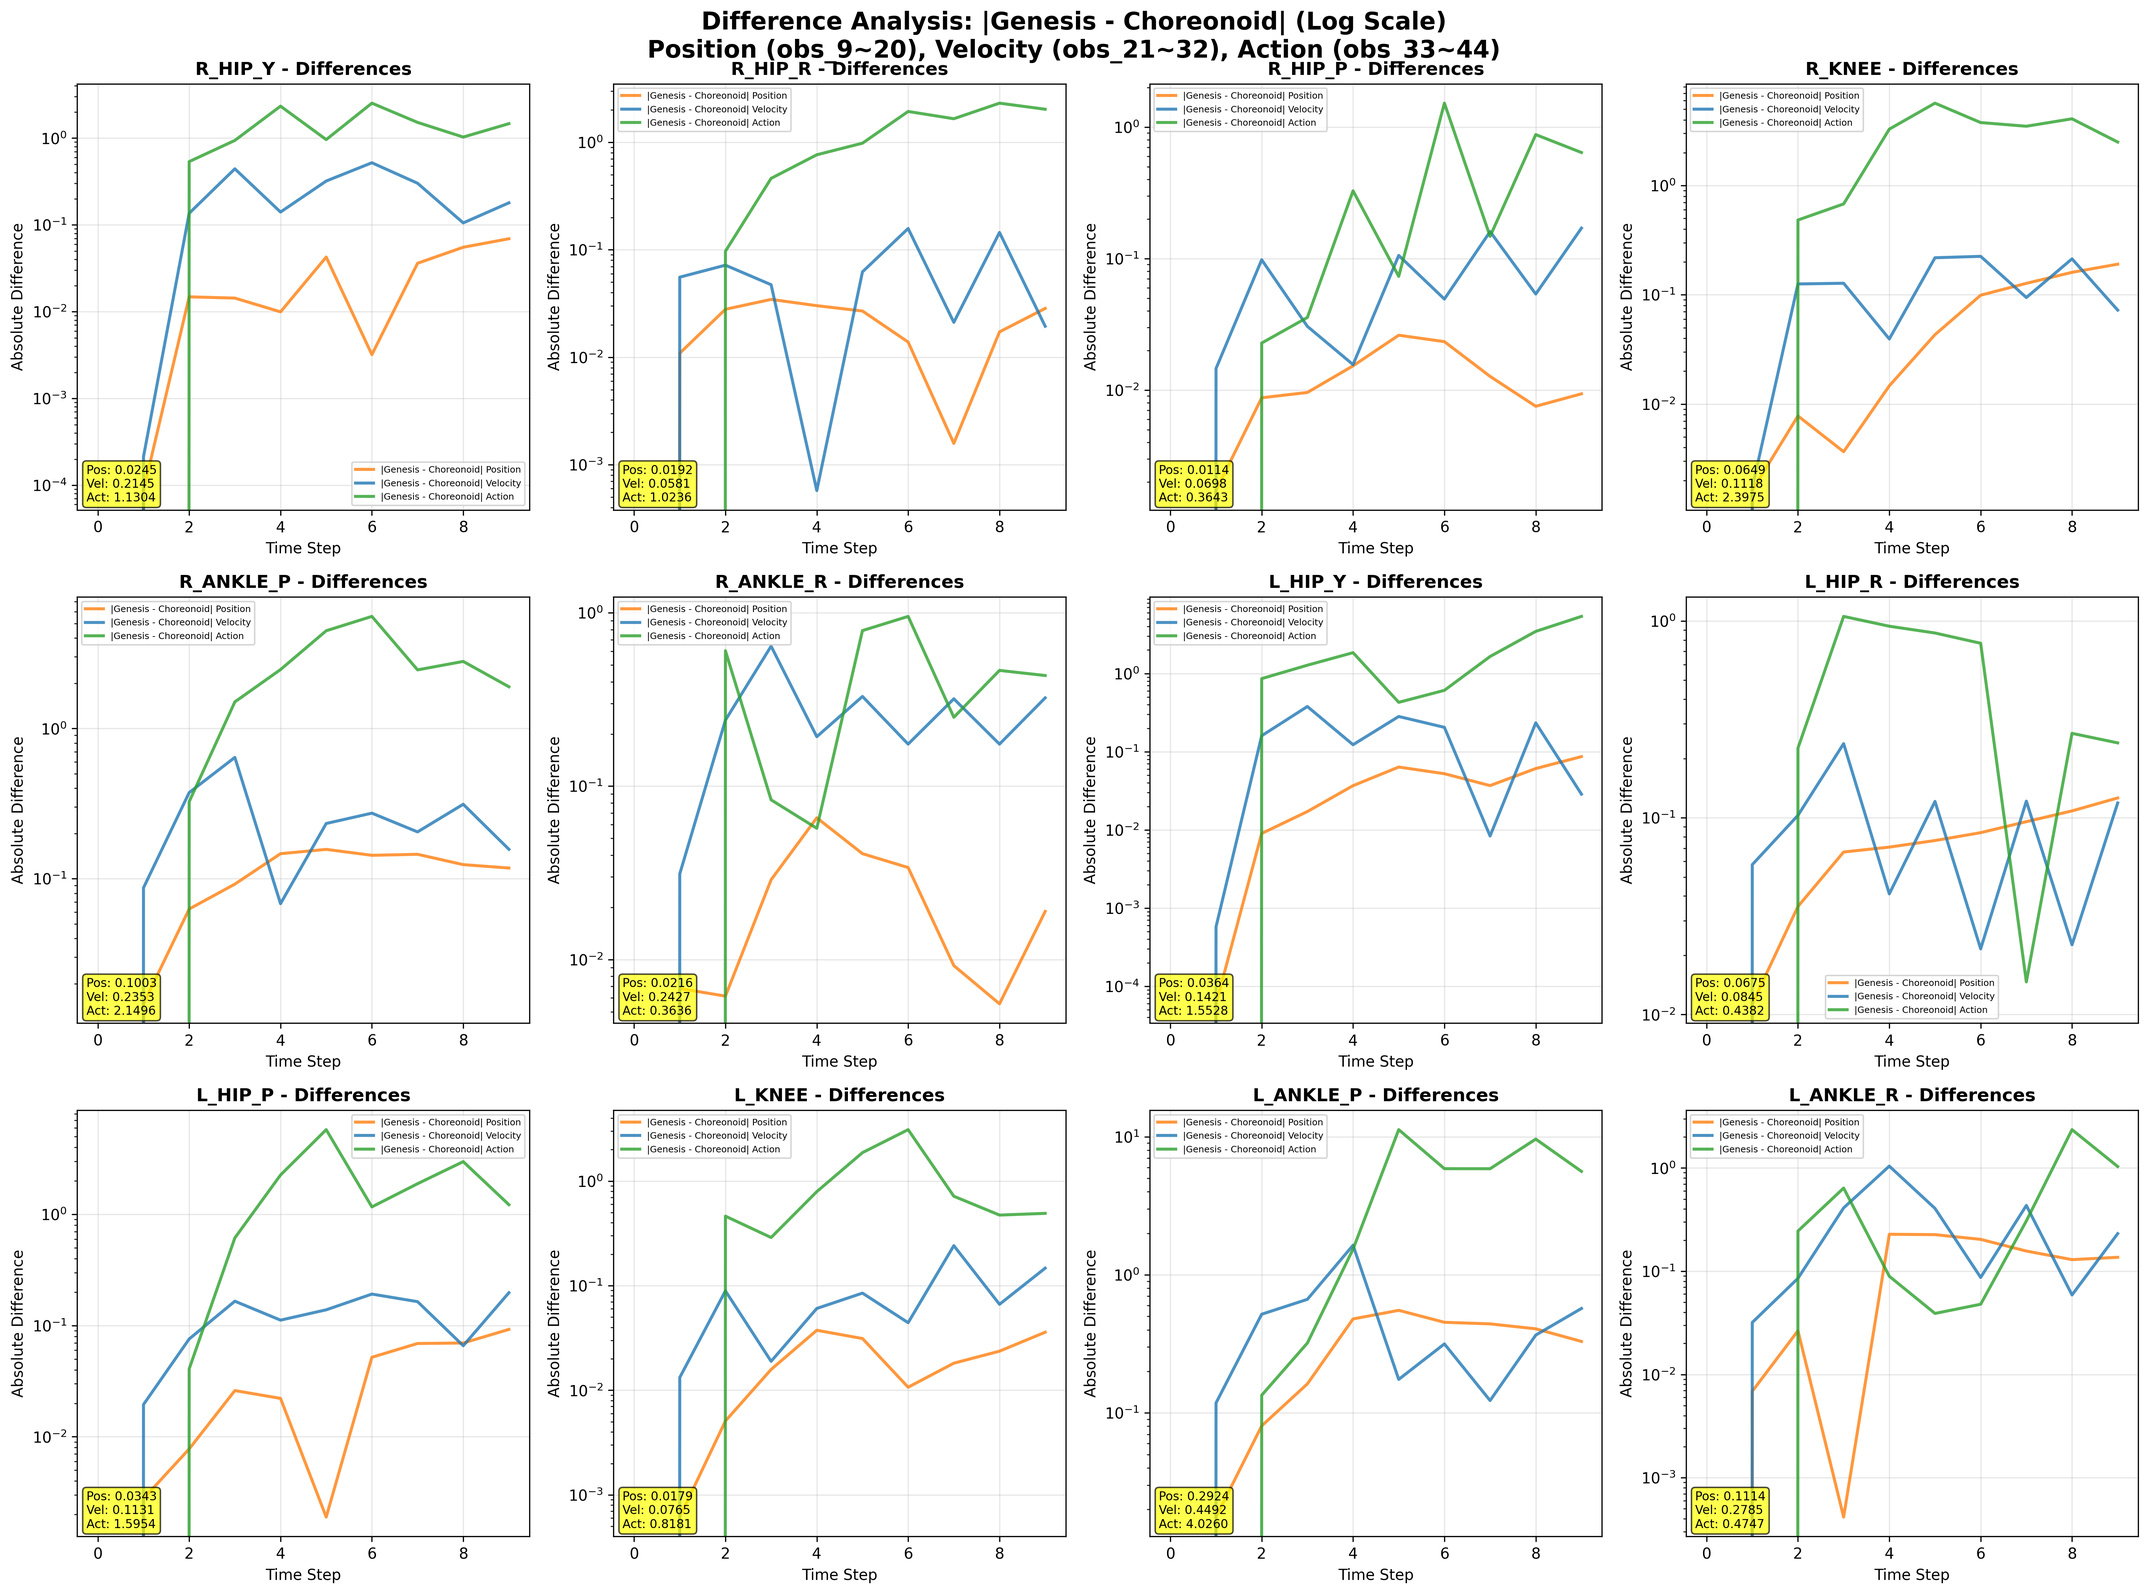
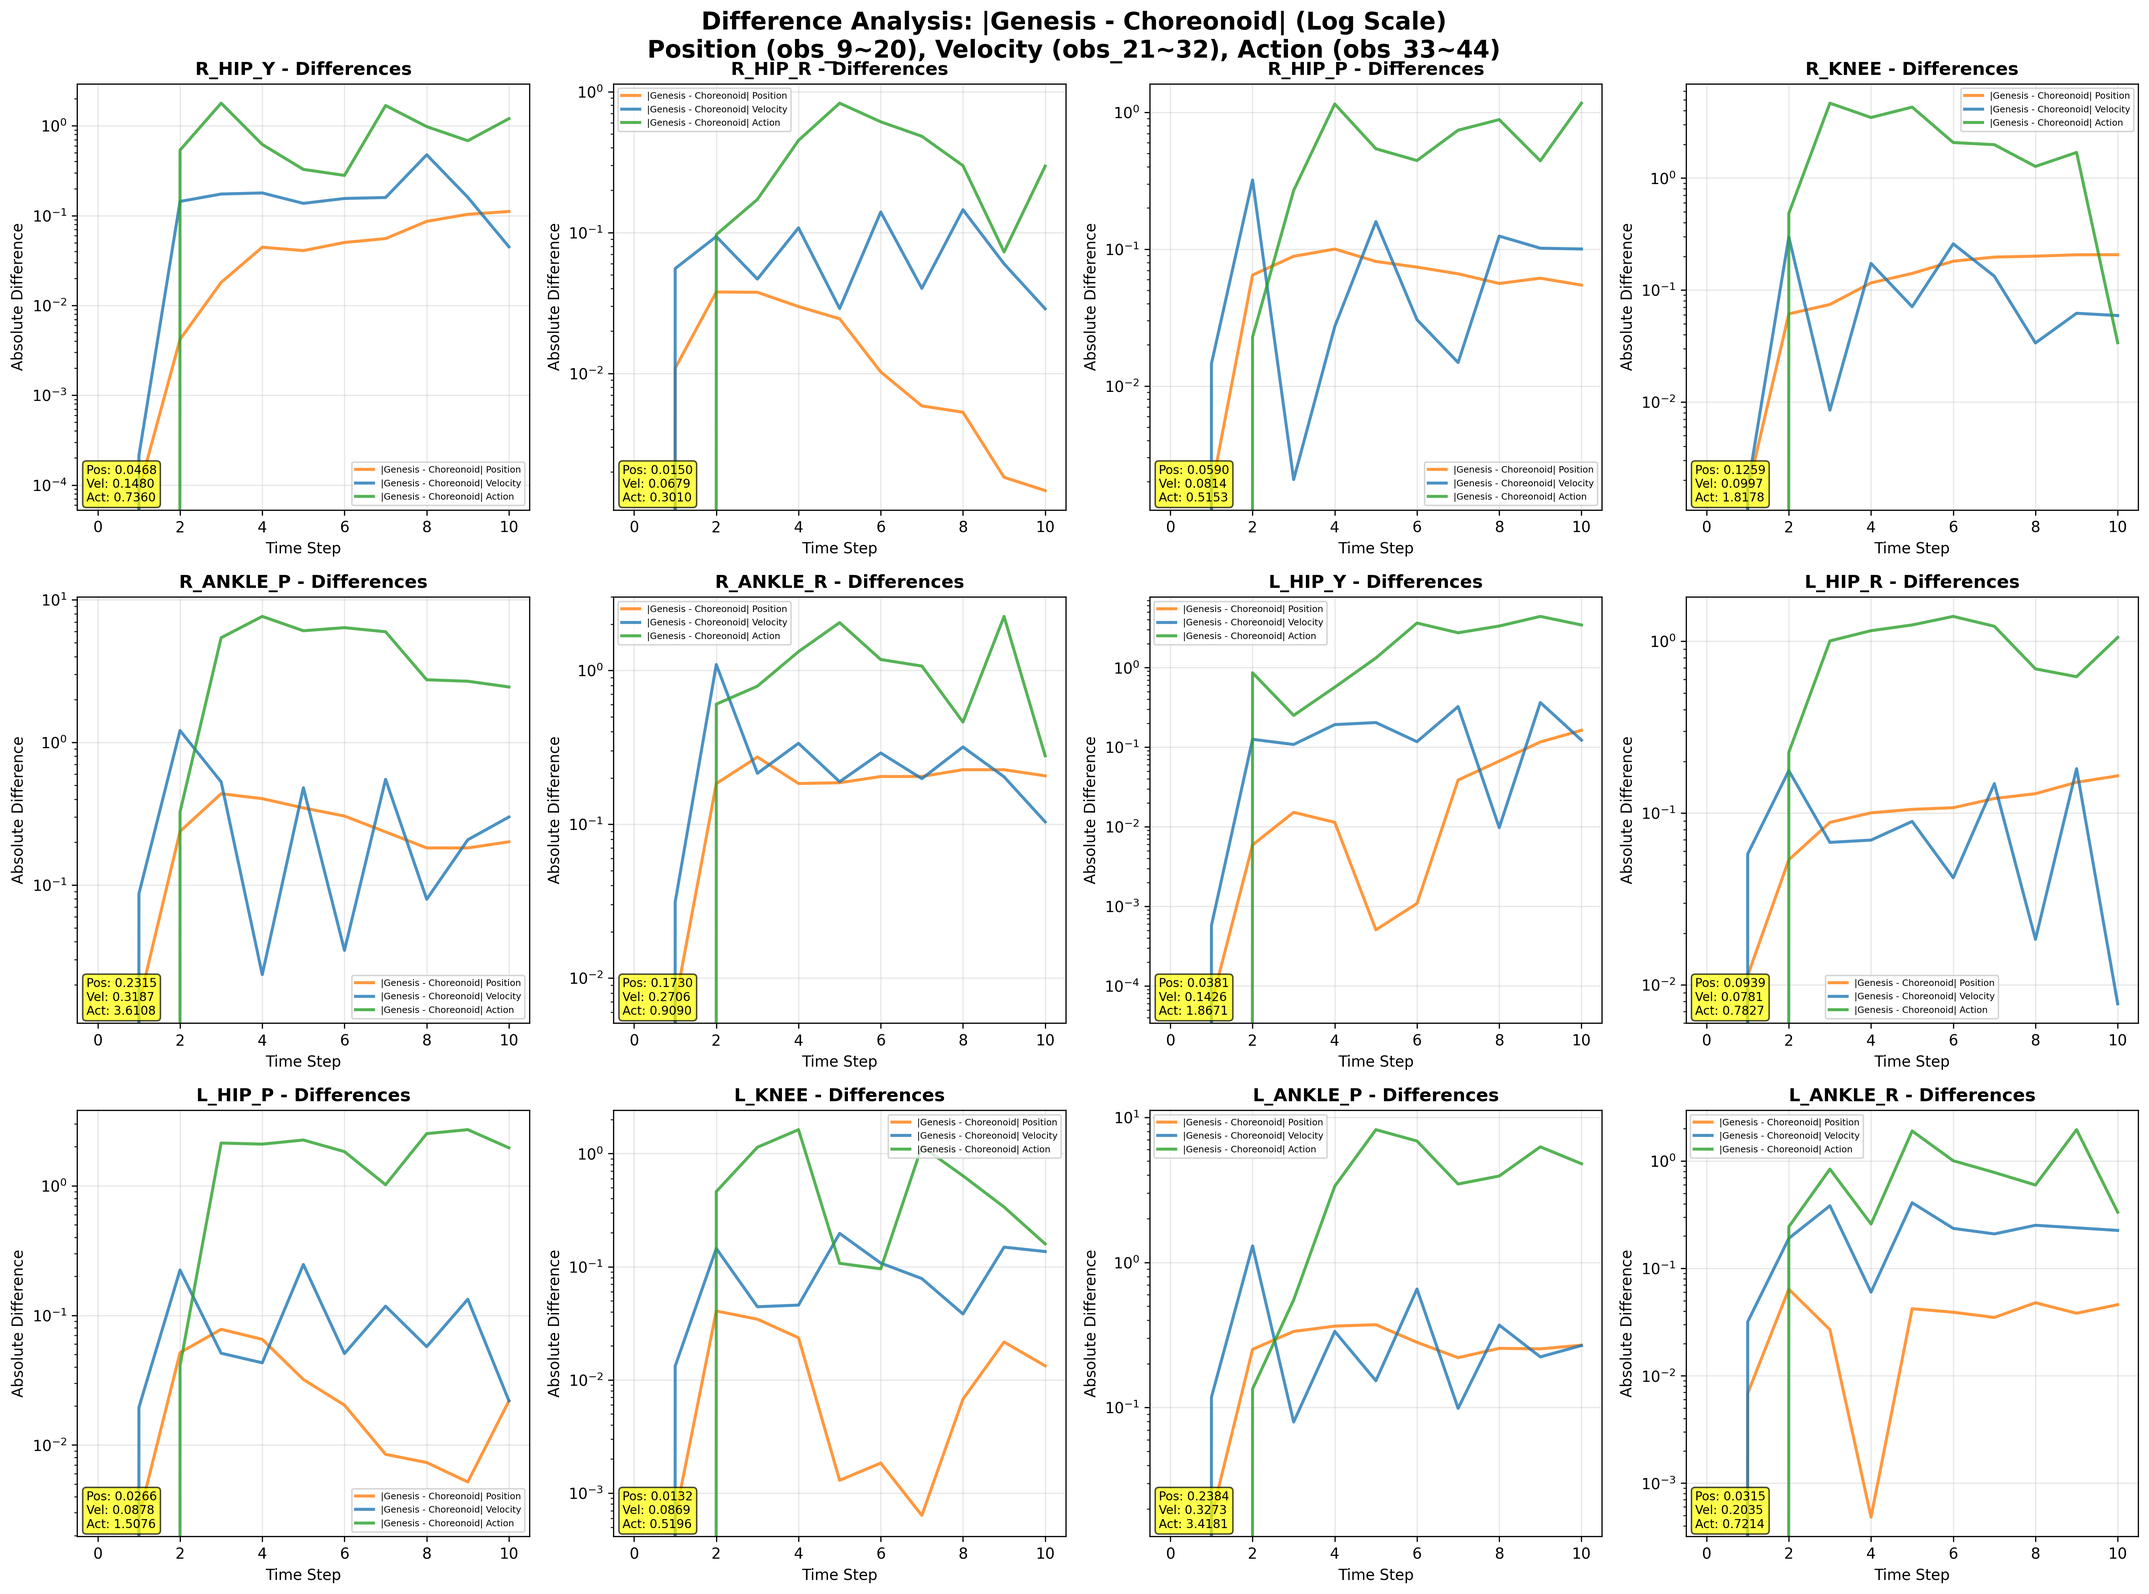
plots torque

diff --git a/samples/ishiki_Errorverifi.py b/samples/ishiki_Errorverifi.py
@@ -20,6 +20,9 @@ COLORS = {
     'choreonoid_ang_vel': '#d62728',   # 赤系
     'choreonoid_dof_pos': '#9467bd',   # 紫系
     'choreonoid_action': '#8c564b',    # 茶系
+    # 追加: トルク
+    'genesis_torque': '#17becf',       # ティール
+    'choreonoid_torque': '#e377c2',    # ピンク
 }
 
 PLOT_CONFIG = {
@@ -52,34 +55,54 @@ def extract_obs_components(genesis_df, cnoid_df):
     """
     観測値の各成分を抽出
     観測値の構造:
-    - obs_0~2:   base_ang_vel (3) - 基準座標系での角速度
-    - obs_3~5:   projected_gravity (3) - 重力ベクトル
-    - obs_6~8:   commands (3) - コマンド値
-    - obs_9~20:  dof_pos - default_dof_pos (12) - 関節角度（デフォルトからの差分）
-    - obs_21~32: dof_vel (12) - 関節角速度
-    - obs_33~44: actions (12) - アクション値
+    - obs_0~2:   base_ang_vel (3)
+    - obs_3~5:   projected_gravity (3)
+    - obs_6~8:   commands (3)
+    - obs_9~20:  dof_pos - default_dof_pos (12)
+    - obs_21~32: dof_vel (12)
+    - obs_33~44: actions (12)
+    - torque_0~11: torques (12)  ← あれば読む
     """
-    
     # 共通のステップ数を確認
     min_steps = min(len(genesis_df), len(cnoid_df))
     print(f"Analyzing {min_steps} steps")
     
-    # Base angular velocity (obs_0~2) - ベース角速度
+    # Base angular velocity (obs_0~2)
     genesis_ang_vel = np.array([genesis_df[f'obs_{i}'].iloc[:min_steps] for i in range(3)]).T
     cnoid_ang_vel = np.array([cnoid_df[f'obs_{i}'].iloc[:min_steps] for i in range(3)]).T
-    
-    # Joint positions (obs_9~20) - 関節位置（12関節）
+
+    # Joint positions (obs_9~20)
     genesis_dof_pos = np.array([genesis_df[f'obs_{9+i}'].iloc[:min_steps] for i in range(12)]).T
     cnoid_dof_pos = np.array([cnoid_df[f'obs_{9+i}'].iloc[:min_steps] for i in range(12)]).T
-    
-    # Joint velocities (obs_21~32) - 関節速度（12関節）
+
+    # Joint velocities (obs_21~32)
     genesis_dof_vel = np.array([genesis_df[f'obs_{21+i}'].iloc[:min_steps] for i in range(12)]).T
     cnoid_dof_vel = np.array([cnoid_df[f'obs_{21+i}'].iloc[:min_steps] for i in range(12)]).T
-    
-    # Actions (obs_33~44) - アクション値（12関節）
+
+    # Actions (obs_33~44)
     genesis_actions = np.array([genesis_df[f'obs_{33+i}'].iloc[:min_steps] for i in range(12)]).T
     cnoid_actions = np.array([cnoid_df[f'obs_{33+i}'].iloc[:min_steps] for i in range(12)]).T
-    
+
+    # Torques (torque_0~11) — 存在チェックして読込
+    torque_cols = [f"torque_{i}" for i in range(12)]
+    has_g_torque = all((c in genesis_df.columns) for c in torque_cols)
+    has_c_torque = all((c in cnoid_df.columns) for c in torque_cols)
+    if has_g_torque and has_c_torque:
+        # 数値化してNaNを補間→0埋め
+        for col in torque_cols:
+            genesis_df[col] = pd.to_numeric(genesis_df[col], errors="coerce")
+            cnoid_df[col]   = pd.to_numeric(cnoid_df[col],   errors="coerce")
+        genesis_df[torque_cols] = genesis_df[torque_cols].fillna(method="ffill").fillna(0.0)
+        cnoid_df[torque_cols]   = cnoid_df[torque_cols].fillna(method="ffill").fillna(0.0)
+
+        min_steps = min(len(genesis_df), len(cnoid_df))
+        genesis_torque = np.array([genesis_df[f'torque_{i}'].iloc[:min_steps] for i in range(12)]).T
+        cnoid_torque   = np.array([cnoid_df[f'torque_{i}'].iloc[:min_steps] for i in range(12)]).T
+    else:
+        genesis_torque = None
+        cnoid_torque = None
+        print("Info: torque_0..11 columns not found in one or both CSVs. Skipping torque plots.")
+
     return {
         'genesis_ang_vel': genesis_ang_vel,
         'cnoid_ang_vel': cnoid_ang_vel,
@@ -88,7 +111,9 @@ def extract_obs_components(genesis_df, cnoid_df):
         'genesis_dof_vel': genesis_dof_vel,
         'cnoid_dof_vel': cnoid_dof_vel,
         'genesis_actions': genesis_actions,
-        'cnoid_actions': cnoid_actions
+        'cnoid_actions': cnoid_actions,
+        'genesis_torque': genesis_torque,
+        'cnoid_torque': cnoid_torque,
     }
 
 def plot_base_ang_vel_comparison(data):
@@ -286,6 +311,54 @@ def plot_action_comparison(data):
     plt.show()
     print("✓ Action comparison plot saved")
 
+def plot_torque_comparison(data):
+    """Torque比較 (torque_0~11)"""
+    genesis_torque = data.get('genesis_torque', None)
+    cnoid_torque = data.get('cnoid_torque', None)
+    if genesis_torque is None or cnoid_torque is None:
+        print("Skip torque comparison (no torque columns).")
+        return
+
+    steps = np.arange(len(genesis_torque))
+    fig, axes = plt.subplots(3, 4, figsize=PLOT_CONFIG['figsize_large'])
+    axes = axes.flatten()
+
+    for i in range(12):
+        axes[i].plot(
+            steps, genesis_torque[:, i],
+            label='Genesis', color=COLORS['genesis_torque'],
+            linewidth=PLOT_CONFIG['linewidth'], alpha=PLOT_CONFIG['alpha_line'],
+        )
+        axes[i].plot(
+            steps, cnoid_torque[:, i],
+            label='Choreonoid', color=COLORS['choreonoid_torque'],
+            linewidth=PLOT_CONFIG['linewidth'], alpha=PLOT_CONFIG['alpha_line'],
+        )
+        axes[i].set_title(f'{JOINT_NAMES[i]} Torque', fontsize=12, fontweight='bold')
+        axes[i].set_xlabel('Time Step')
+        axes[i].set_ylabel('Torque [Nm]')
+        axes[i].legend(fontsize=8)
+        axes[i].grid(True, alpha=PLOT_CONFIG['alpha_grid'])
+
+        # 統計情報
+        g_mean = np.mean(genesis_torque[:, i])
+        c_mean = np.mean(cnoid_torque[:, i])
+        diff_mean = np.mean(np.abs(genesis_torque[:, i] - cnoid_torque[:, i]))
+        axes[i].text(
+            0.02, 0.98, f'G: {g_mean:.3f}\nC: {c_mean:.3f}\nΔ: {diff_mean:.4f}',
+            transform=axes[i].transAxes, verticalalignment='top',
+            bbox=dict(boxstyle='round,pad=0.3', facecolor='white', alpha=0.8),
+            fontsize=8,
+        )
+
+    plt.suptitle('Genesis vs Choreonoid: Joint Torque Comparison\n(torque_0~11)', 
+                 fontsize=16, fontweight='bold')
+    plt.tight_layout()
+    plt.savefig(f'{OUTPUT_DIR}/torque_comparison.png',
+                dpi=PLOT_CONFIG['dpi'], bbox_inches='tight')
+    plt.show()
+    print("✓ Torque comparison plot saved")
+
 def plot_comprehensive_comparison(data):
     """包括的比較：各関節について3つの要素を同時表示"""
     genesis_dof_pos = data['genesis_dof_pos']
@@ -422,6 +495,8 @@ def print_comprehensive_statistics(data):
     cnoid_dof_vel = data['cnoid_dof_vel']
     genesis_actions = data['genesis_actions']
     cnoid_actions = data['cnoid_actions']
+    genesis_torque = data.get('genesis_torque', None)
+    cnoid_torque = data.get('cnoid_torque', None)
     
     print("\n" + "="*120)
     print("COMPREHENSIVE OBSERVATION COMPARISON ANALYSIS")
@@ -476,9 +551,16 @@ def print_comprehensive_statistics(data):
     print(f"Joint Velocity difference:         {overall_vel_diff:.6f}")
     print(f"Action difference:                 {overall_act_diff:.6f}")
     
+    if genesis_torque is not None and cnoid_torque is not None:
+        overall_torque_diff = np.mean(np.abs(genesis_torque - cnoid_torque))
+        print(f"Torque difference:                  {overall_torque_diff:.6f}")
+
     # 比率分析
     print(f"\nComponent Analysis:")
     total_diff = overall_pos_diff + overall_vel_diff + overall_act_diff
+    if genesis_torque is not None and cnoid_torque is not None:
+        total_diff += overall_torque_diff
+        print(f"Torque contribution:   {overall_torque_diff/total_diff*100:.1f}%")
     print(f"Position contribution: {overall_pos_diff/total_diff*100:.1f}%")
     print(f"Velocity contribution: {overall_vel_diff/total_diff*100:.1f}%")
     print(f"Action contribution:   {overall_act_diff/total_diff*100:.1f}%")
@@ -518,20 +600,23 @@ def main():
     # データ読み込みと抽出
     genesis_df, cnoid_df = load_data()
     data = extract_obs_components(genesis_df, cnoid_df)
-    
-    # 6つのプロットを生成
+
+    # 生成するプロット
     plot_functions = [
         plot_base_ang_vel_comparison,
         plot_dof_pos_comparison,
         plot_dof_vel_comparison,
         plot_action_comparison,
         plot_comprehensive_comparison,
-        plot_difference_analysis
+        plot_difference_analysis,
     ]
-    
+    # トルクがあれば追加
+    if data.get('genesis_torque') is not None and data.get('cnoid_torque') is not None:
+        plot_functions.insert(3, plot_torque_comparison)  # アクションの前後どちらでもOK
+
     for plot_func in plot_functions:
         plot_func(data)
-    
+
     # 統計サマリーを出力
     print_comprehensive_statistics(data)
     
@@ -540,10 +625,24 @@ def main():
     print("1. base_ang_vel_comparison.png")
     print("2. dof_pos_comparison.png")
     print("3. dof_vel_comparison.png")
-    print("4. action_comparison.png")
-    print("5. comprehensive_comparison.png")
-    print("6. difference_analysis.png")
+    if data.get('genesis_torque') is not None and data.get('cnoid_torque') is not None:
+        print("4. torque_comparison.png")
+        print("5. action_comparison.png")
+        print("6. comprehensive_comparison.png")
+        print("7. difference_analysis.png")
+    else:
+        print("4. action_comparison.png")
+        print("5. comprehensive_comparison.png")
+        print("6. difference_analysis.png")
     print("=" * 80)
 
-if __name__ == "__main__":
-    main()
+
+if __name__ == "__main__":  main()
+
+"""
+# 使用例:
+# データ収集付き評価(100ステップ)
+python3 ishiki_Errorverifi.py -e ishiki-walking-rand -o obs_comparison_plots_rand 
+--genesis-file obs_data/genesis_ishiki-walking-rand_ckpt1000_simple.csv --choreonoid-file obs_data/cnoid_ishiki-walking-rand_ckpt1000_scale1.0.csv
+
+"""

diff --git a/samples/ishiki_eval_gs.py b/samples/ishiki_eval_gs.py
@@ -87,57 +87,62 @@ def main():
 
     return env, policy, args
 
+def _read_torques(env):
+    """環境から実トルクをnp.ndarrayで取得"""
+    try:
+        if hasattr(env, "robot") and hasattr(env.robot, "get_dofs_force"):
+            if hasattr(env, "motors_dof_idx"):
+                t = env.robot.get_dofs_force(env.motors_dof_idx)
+            else:
+                t = env.robot.get_dofs_force()
+            return t.detach().cpu().numpy().astype(np.float32).ravel() if isinstance(t, torch.Tensor) \
+                   else np.asarray(t, dtype=np.float32).ravel()
+        elif hasattr(env, "dof_force") and env.dof_force is not None:
+            return env.dof_force[0].detach().cpu().numpy().astype(np.float32).ravel()
+    except Exception as e:
+        print(f"warn: torque read failed: {e}")
+    return np.zeros(env.env_cfg.get("num_actions", 12), dtype=np.float32)
+
 def eval_policy_with_data_collection(env, policy, args):
-    """データ収集付きの評価関数"""
-    # データ収集用のリスト
+    """reset直後のobsも含めて保存し、その後は各step後のobs/torqueを保存"""
     step_data = []
     obs_data = []
-    torque_data = []  # ← ここは常にリストのまま
+    torque_data = []
 
+    # reset直後を記録（step=0）
     obs, _ = env.reset()
     cnt = 0
+    step_data.append(cnt)
+    obs_data.append(obs.cpu().numpy().flatten())
+    torque_data.append(_read_torques(env))
+
     print(f"データ収集開始: {args.steps} ステップ")
-    
+
     with torch.no_grad():
         for i in range(args.steps):
-            # ポリシーから行動を取得
+            # 行動計算 → 環境を1ステップ進める
             actions = policy(obs)
-
-            # 1ステップ進める（トルクはこの後に読む方が一貫しやすい）
             obs, rews, dones, infos = env.step(actions)
 
-            # 実トルクの取得（優先: robot.get_dofs_force）
-            torques = None
-            try:
-                if hasattr(env, "robot") and hasattr(env.robot, "get_dofs_force"):
-                    if hasattr(env, "motors_dof_idx"):
-                        t = env.robot.get_dofs_force(env.motors_dof_idx)
-                    else:
-                        t = env.robot.get_dofs_force()
-                    torques = t.detach().cpu().numpy().ravel() if isinstance(t, torch.Tensor) else np.asarray(t, dtype=np.float32).ravel()
-                elif hasattr(env, "dof_force") and env.dof_force is not None:
-                    torques = env.dof_force[0].detach().cpu().numpy().ravel()
-            except Exception as e:
-                print(f"warn: torque read failed: {e}")
-
-            if torques is None:
-                torques = np.zeros(env.env_cfg.get("num_actions", 12), dtype=np.float32)
-
-            # 記録（obsはステップ後のもの）
+            # ステップ後のデータを記録
+            cnt += 1
             step_data.append(cnt)
             obs_data.append(obs.cpu().numpy().flatten())
-            torque_data.append(torques)
+            torque_data.append(_read_torques(env))
 
             if i % 20 == 0:
                 print(f"Step {i+1}/{args.steps}, Total steps: {cnt}")
-            cnt += 1
 
+            # 終了時はすぐresetし、reset直後のobsも記録して継続
             if dones.any():
-                print(f"Episode finished at step {cnt}, resetting...")
                 obs, _ = env.reset()
-    
-    print(f"データ収集完了: {len(step_data)} steps collected")
-    
+                cnt += 1
+                step_data.append(cnt)
+                obs_data.append(obs.cpu().numpy().flatten())
+                torque_data.append(_read_torques(env))
+
+    print(f"データ収集完了: {len(step_data)} rows")
+
     # CSVファイルに保存（トルク付き）
     df = save_simple_csv(step_data, obs_data, args.exp_name, args.ckpt, torque_data)
     return df
